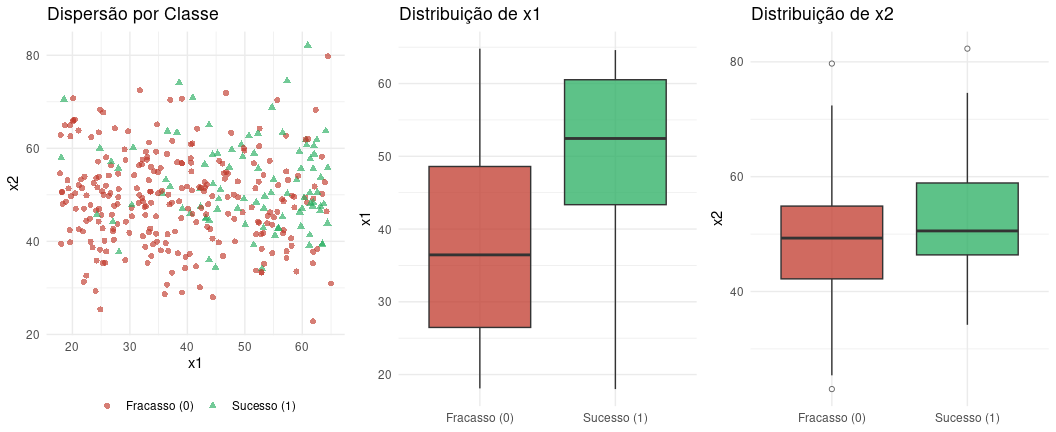
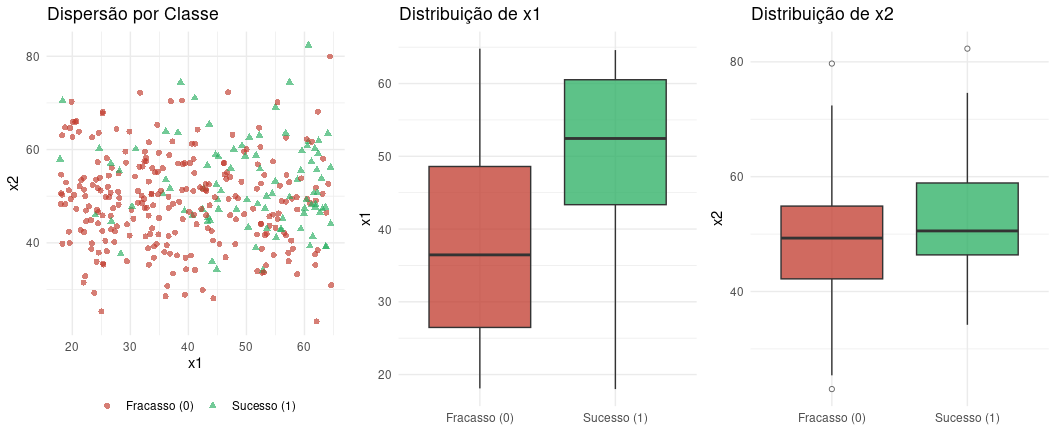
apresentacao da regressao logistica

diff --git a/R/analise_de_regressao_logistica/claude/tutorial_regressao_logistica.md b/R/analise_de_regressao_logistica/claude/tutorial_regressao_logistica.md
@@ -367,7 +367,16 @@ por algoritmos de otimização iterativa:
 Na regressão logística não existe um $R^2$ com interpretação geométrica
 direta. O **pseudo-$R^2$ de McFadden** (1974) é a medida mais usada:
 
-$$\boxed{R^2_{\text{McFadden}} = -\frac{L^*}{L_0} = -\frac{L^*}{N_1\log_e N_1 + N_0\log_e N_0 - (N_1+N_0)\log_e(N_1+N_0)}}$$
+$$
+\boxed{
+R^2_{\mathrm{McFadden}}
+=
+-\frac{L^*}{L_0}
+=
+-\frac{L^*}
+{N_1\log_e(N_1)+N_0\log_e(N_0)-(N_1+N_0)\log_e(N_1+N_0)}
+}
+$$
 
 onde:
 
